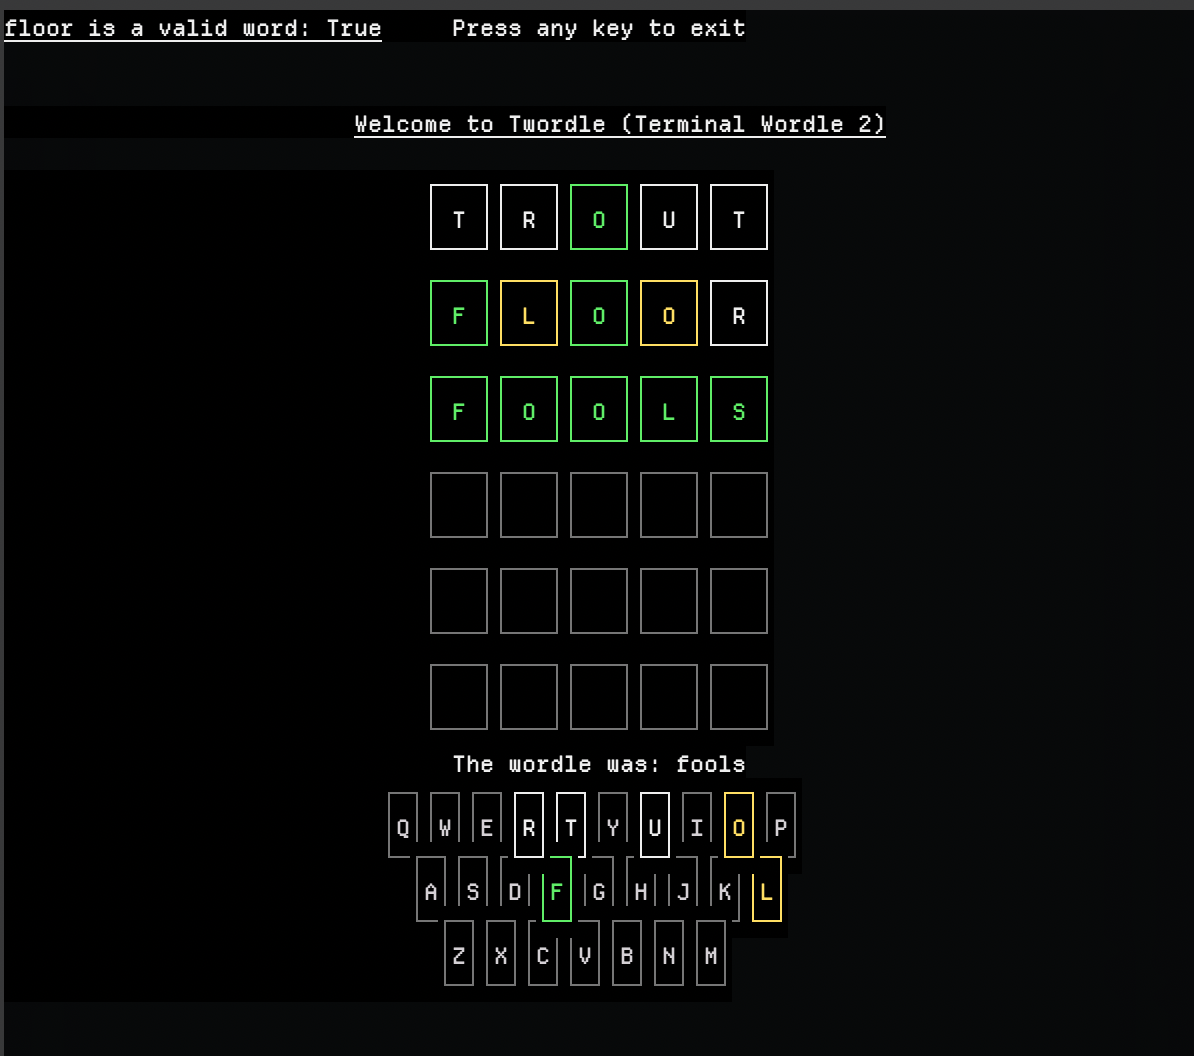
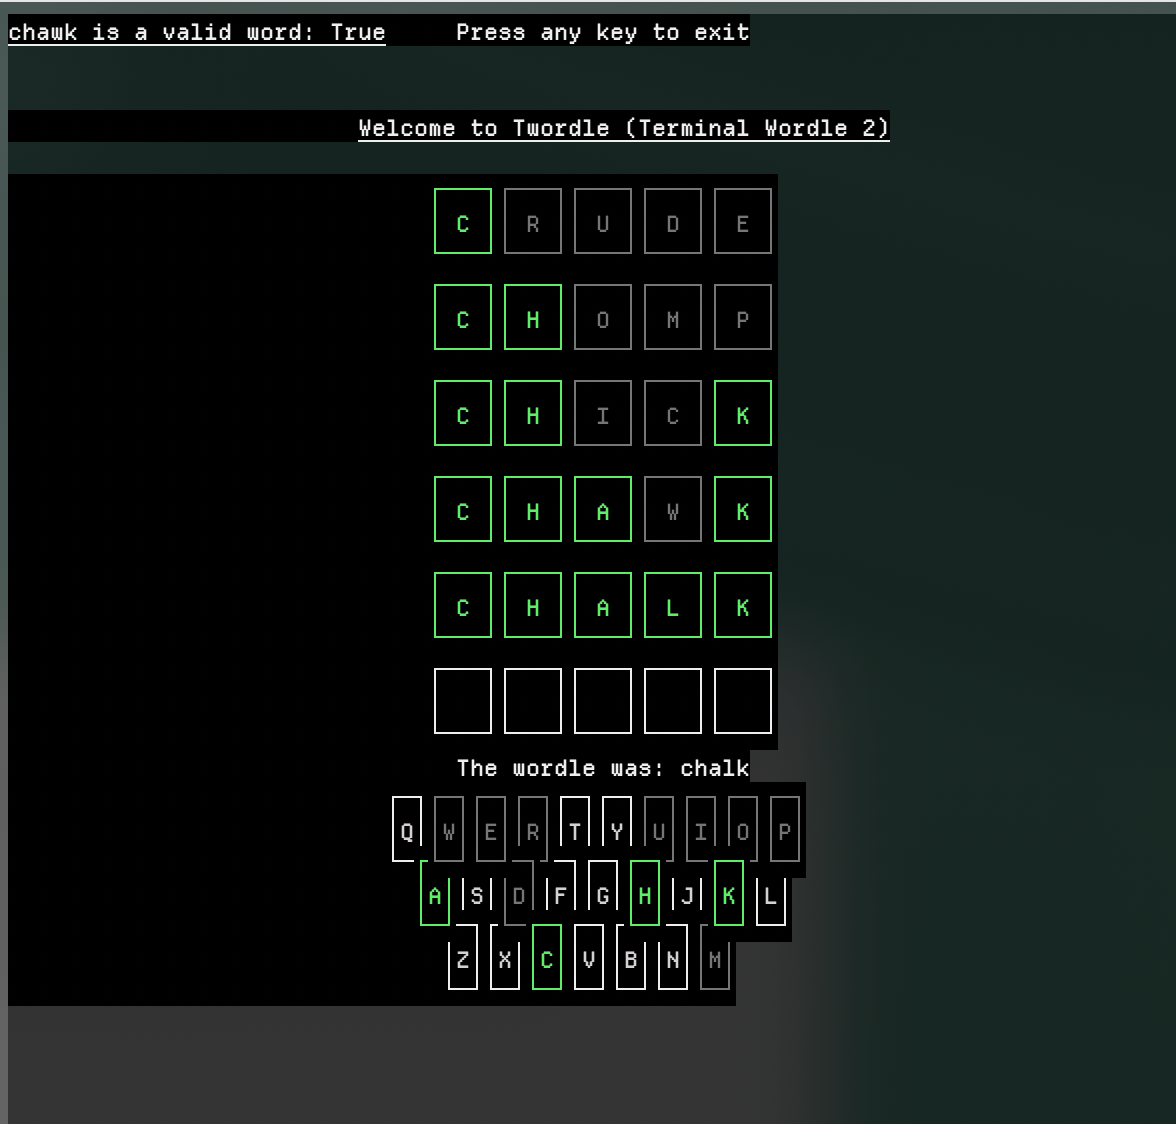
fixed matching bug

diff --git a/wordle.py b/wordle.py
@@ -23,17 +23,25 @@ def is_matching(wordle, guess)-> dict:
         'yellow': [],
         'dark': [],
     }
-    letters_used = {} # to avoid double counting but also to allow for mulitple letters when appropriate
 
+    wordle_used = [False] * len(wordle)
     for idx,letter in enumerate(guess):
         if letter == wordle[idx]:
             matched['green'].append(idx)
-            letters_used[letter] = letters_used.get(letter, 0) + 1
-        elif letter in wordle:
-            if letters_used.get(letter, 0) < wordle.count(letter):
+            wordle_used[idx] = True
+    
+    for idx, letter in enumerate(guess):
+        if idx in matched['green']:
+            continue
+
+        found = False
+        for w_idx, w_letter in enumerate(wordle):
+            if w_letter == letter and not wordle_used[w_idx]:
                 matched['yellow'].append(idx)
-                letters_used[letter] = letters_used.get(letter, 0) + 1
-        else:
+                wordle_used[w_idx] = True
+                found = True
+                break
+        if not found:
             matched['dark'].append(idx)
     return matched
 
